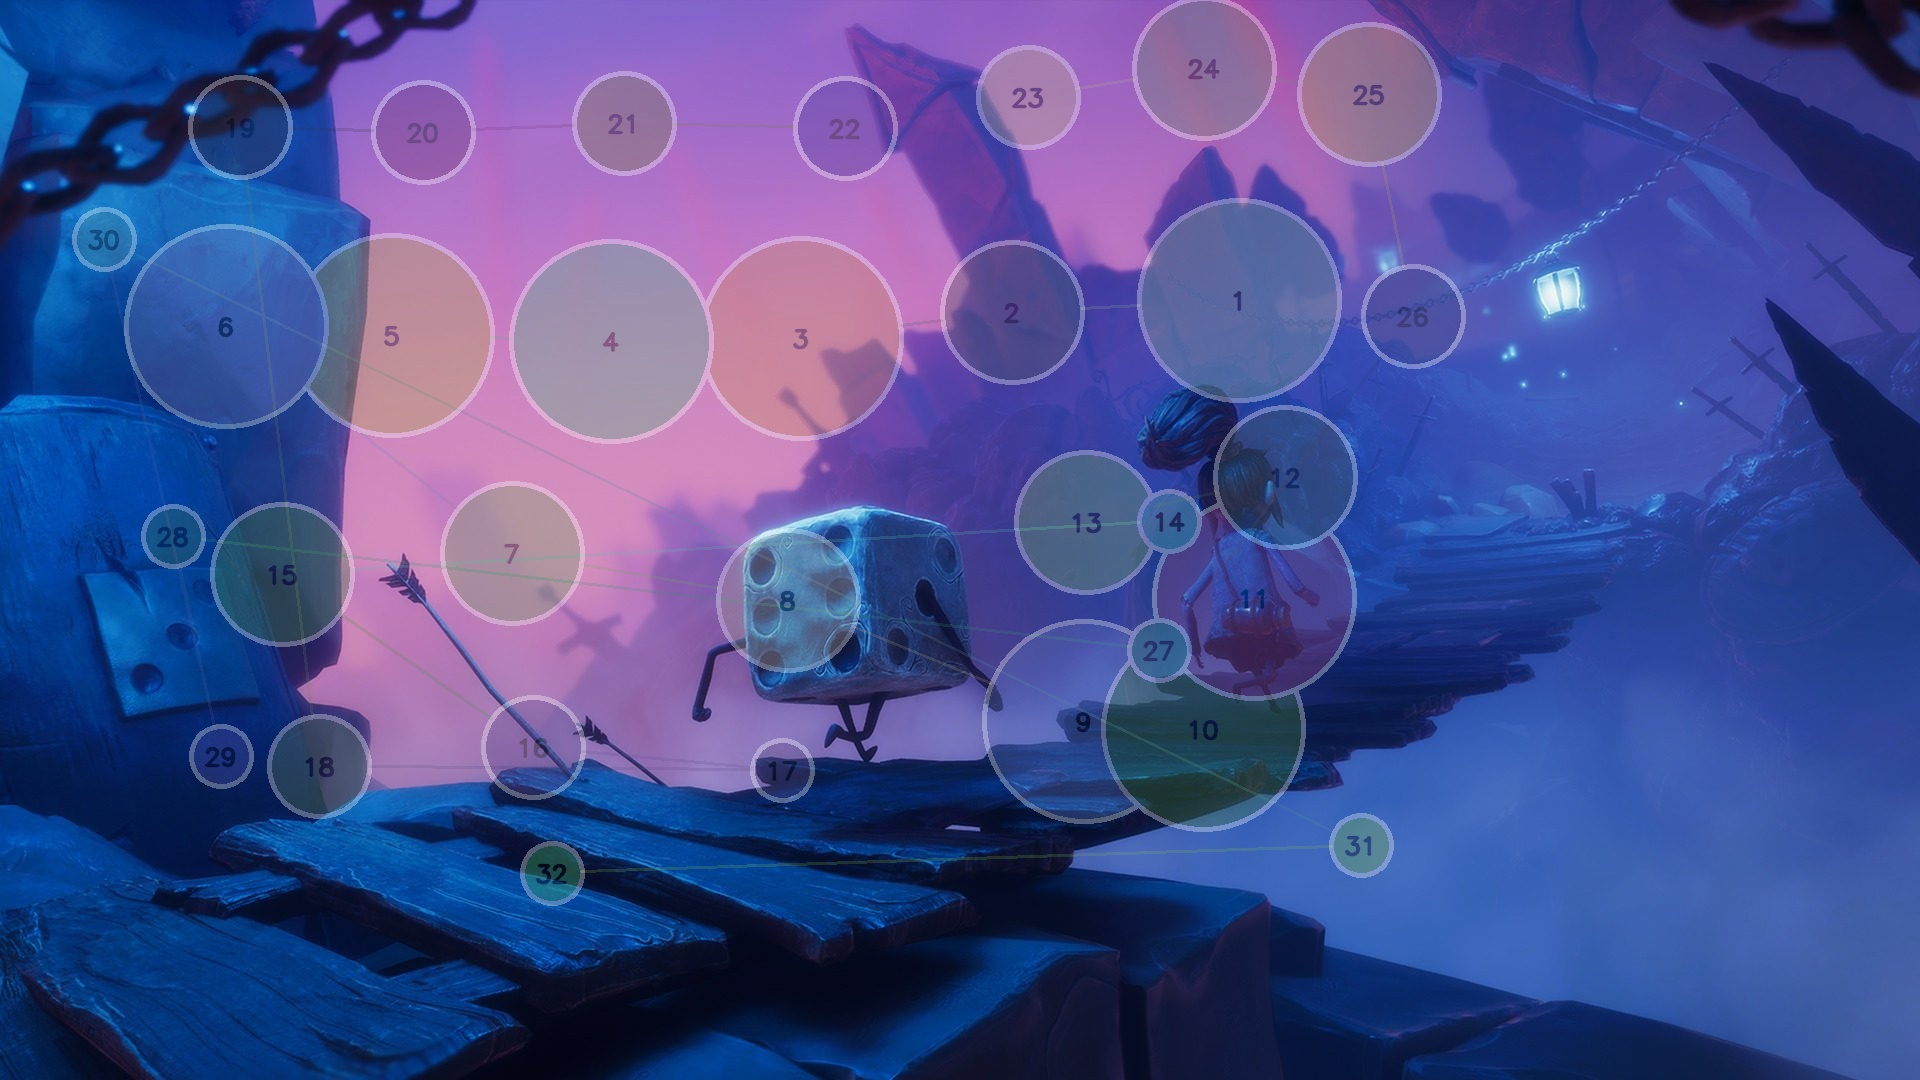
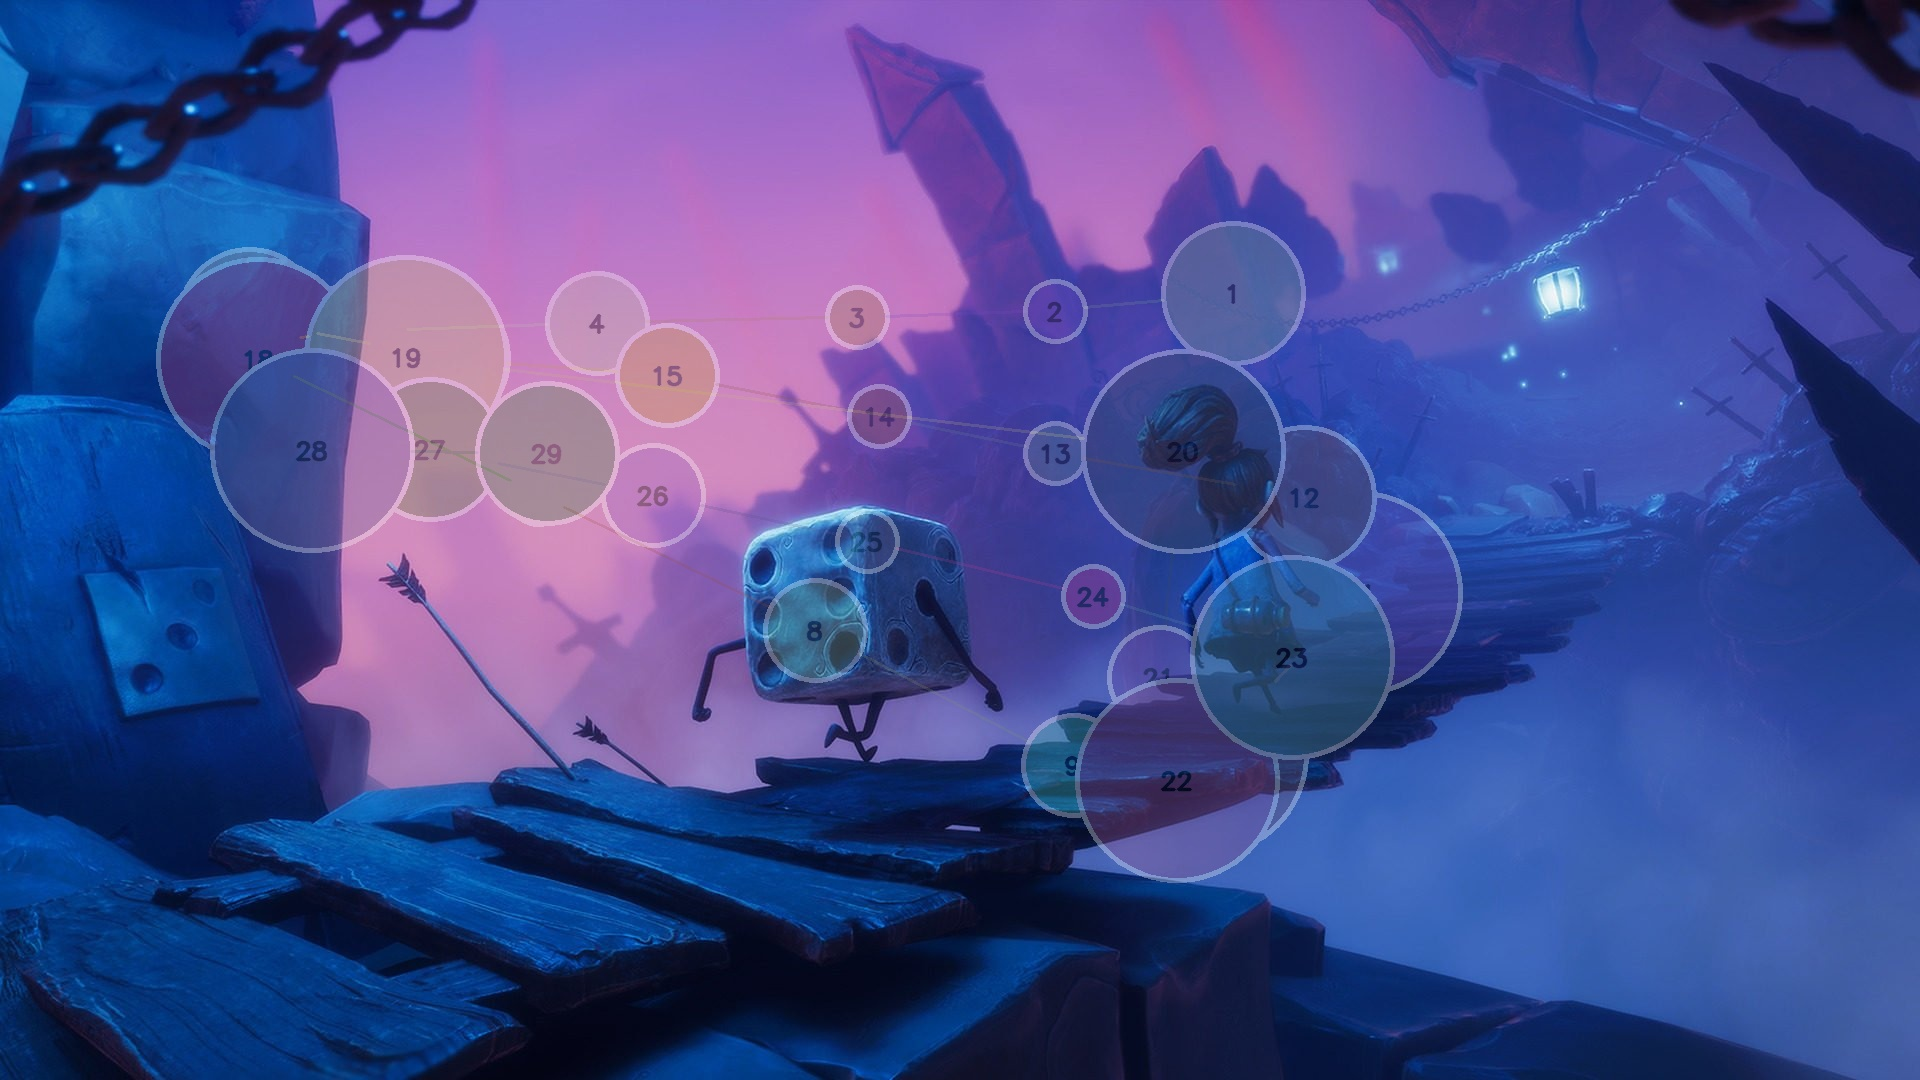
feat: scanpath fixed

diff --git a/scanpath.py b/scanpath.py
@@ -25,17 +25,23 @@ with open(input_path) as f:
 	reader = csv.reader(f)
 	raw = list(map(lambda q: (int(q[0]), int(q[1])), list(reader)))
 
+raw = raw[:500]
+
+main_point = None
 for i in range(0, len(raw)):
-    x = raw[i][0]
-    y = raw[i][1]
-    for key in points_group:
-         if abs(x - key[0]) <= threshold and abs(y - key[1]) <= threshold:
-             points_group[key]['points'].append(raw[i])
-             break
-    else:
-        points_group[(x, y)] = {'points': [raw[i]], 'middle': {'x': 0, 'y': 0}, 'diameter': 0, 'index': order + 1}
-        order += 1
+    if not main_point:
+        main_point = (raw[i][0], raw[i][1])
+
+    if abs(raw[i][0] - main_point[0]) <= threshold and abs(raw[i][1] - main_point[1]) <= threshold:
+        if not points_group.get(order):
+            points_group[order] = {'points': [raw[i]], 'middle': {'x': 0, 'y': 0}, 'diameter': 0, 'index': order + 1}
+        else:
+            points_group[order]['points'].append(raw[i])
     
+    else:
+        order += 1
+        main_point = (raw[i][0], raw[i][1])
+        points_group[order] = {'points': [raw[i]], 'middle': {'x': 0, 'y': 0}, 'diameter': 0, 'index': order + 1}
 
 points_group = dict(sorted(points_group.items(), key=lambda item: len(item[1]['points']), reverse=False))
 points_group_keys = list(points_group)    
